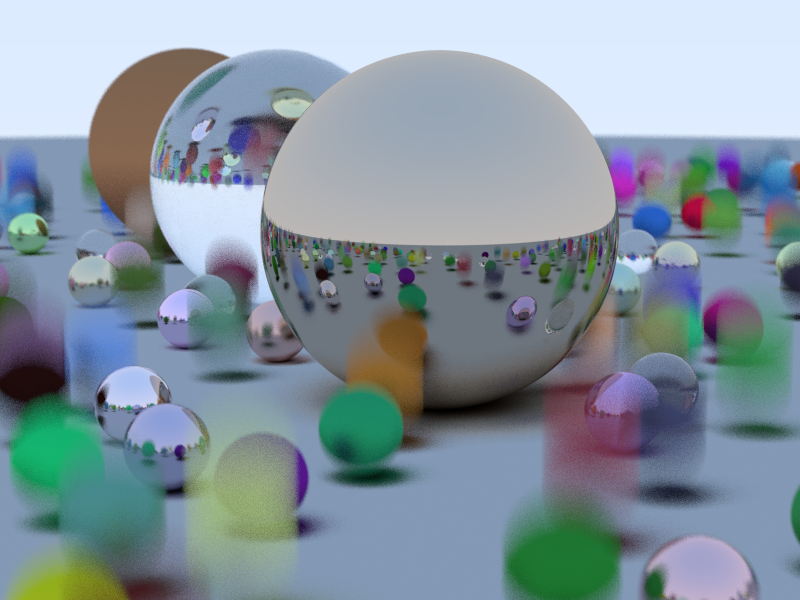
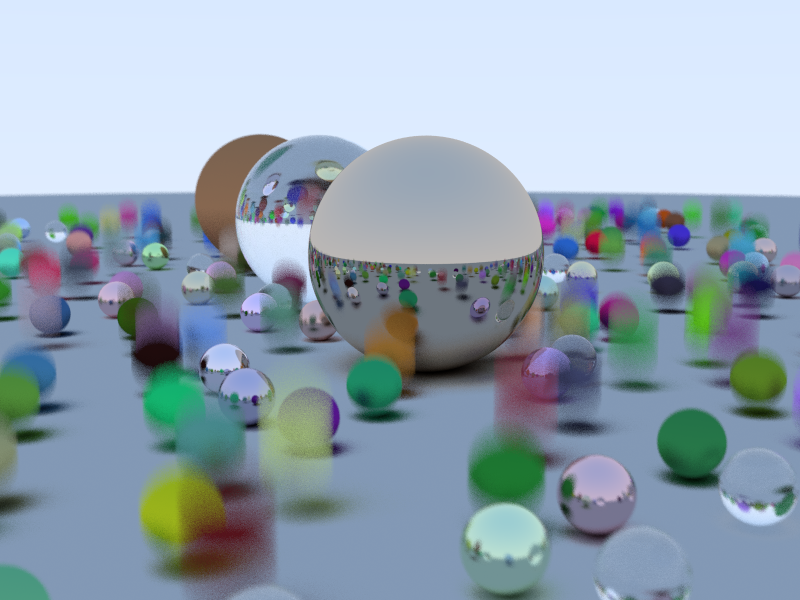
updating BVH and benchmark

diff --git a/src/bvh.cpp b/src/bvh.cpp
@@ -1,5 +1,122 @@
 #include "bvh.h"
 
+#include <algorithm>
+
+bool bvh_node::box_x_compare::operator() (const hitable_reference& a, const hitable_reference& b) const
+{
+    aabb box_left, box_right;
+    if(a->bounding_box(0, 0, box_left) == false || b->bounding_box(0, 0, box_right) == false)
+    {
+        std::cerr << "No bounding box in bvh_node constructor!\n";
+    }
+
+    // IMPORTANT !!!
+    // Reference : https://stackoverflow.com/questions/1541817/sort-function-c-segmentation-fault
+    // In C++, your "compare" predicate must be a strict weak ordering.
+    // In particular, "compare(X,X)" must return "false" for any X.
+    // ... (Otherwise) Therefore, this "compare" predicate does not impose a strict weak ordering,
+    // and the result of passing it to "sort" is undefined.
+
+    if(box_left.get_min().x() - box_right.get_min().x() <= 0.0f)
+    {
+        return false;
+    }
+    else
+    {
+        return true;
+    }
+}
+
+bool bvh_node::box_y_compare::operator() (const hitable_reference& a, const hitable_reference& b) const
+{
+    aabb box_left, box_right;
+    if(a->bounding_box(0, 0, box_left) == false || b->bounding_box(0, 0, box_right) == false)
+    {
+        std::cerr << "No bounding box in bvh_node constructor!\n";
+    }
+
+    if(box_left.get_min().y() - box_right.get_min().y() <= 0.0f)
+    {
+        return false;
+    }
+    else
+    {
+        return true;
+    }
+}
+
+bool bvh_node::box_z_compare::operator() (const hitable_reference& a, const hitable_reference& b) const
+{
+    aabb box_left, box_right;
+    if(a->bounding_box(0, 0, box_left) == false || b->bounding_box(0, 0, box_right) == false)
+    {
+        std::cerr << "No bounding box in bvh_node constructor!\n";
+    }
+
+    if(box_left.get_min().z() - box_right.get_min().z() <= 0.0f)
+    {
+        return false;
+    }
+    else
+    {
+        return true;
+    }
+}
+
+bvh_node::bvh_node(const std::vector<hitable_reference>& _list, float _t0, float _t1)
+{
+    list = _list;
+
+    int list_size = (int)list.size();
+
+    //std::cout << "list_size = " << list_size << "\n";
+
+    int random_axis = int(3 * drand48());
+    if(random_axis == 0)
+    {
+        // Reference : 
+        // according to https://stackoverflow.com/questions/12308243/trying-to-use-qsort-with-vector
+        // using std::sort with functor is the fastest, comparing to qsort and
+        // std::sort with custom function as compare operator
+        std::sort(list.begin(), list.end(), box_x_compare());
+    }
+    else if(random_axis == 1)
+    {
+        std::sort(list.begin(), list.end(), box_y_compare());
+    }
+    else
+    {
+        std::sort(list.begin(), list.end(), box_z_compare());
+    }
+
+    // edge cases when the bounding volume contains only one or two elements
+    if(list_size == 1)
+    {
+        left = right = _list[0];
+    }
+    else if(list_size == 2)
+    {
+        left = _list[0];
+        right = _list[1];
+    }
+    else
+    {
+        int half_size = list_size / 2;
+        std::vector<hitable_reference> left_list(list.begin(), list.begin() + half_size);
+        std::vector<hitable_reference> right_list(list.begin() + half_size, list.end());
+
+        left = std::make_shared<bvh_node>(left_list, _t0, _t1);
+        right = std::make_shared<bvh_node>(right_list, _t0, _t1);
+    }
+
+    aabb box_left, box_right;
+    if(left->bounding_box(_t0, _t1, box_left) == false || right->bounding_box(_t0, _t1, box_right) == false)
+    {
+        std::cerr << "No bounding box in bvh_node constructor!\n";
+    }
+    box = surrounding_box(box_left, box_right);
+}
+
 bool bvh_node::hit(const ray& _ray, float t_min, float t_max, hit_record& rec) const
 {
     if(box.hit(_ray, t_min, t_max))

diff --git a/include/bvh.h b/include/bvh.h
@@ -11,10 +11,27 @@ class bvh_node : public hitable
 {
 private:
     typedef std::shared_ptr<hitable> hitable_reference;
+    
+public:
+    class box_x_compare
+    {
+    public:
+        bool operator()(const hitable_reference& a, const hitable_reference& b) const;
+    };
+    class box_y_compare
+    {
+    public:
+        bool operator()(const hitable_reference& a, const hitable_reference& b) const;
+    };
+    class box_z_compare
+    {
+    public:
+        bool operator()(const hitable_reference& a, const hitable_reference& b) const;
+    };
 
 public:
     bvh_node() {}
-    bvh_node(const std::vector<hitable_reference>& _list, int _list_size, float _t0, float _t1);
+    bvh_node(const std::vector<hitable_reference>& _list, float _t0, float _t1);
 
     virtual bool hit(const ray& _ray, float t_min, float t_max, hit_record& rec) const override;
     virtual bool bounding_box(float t0, float t1, aabb& _box) const override;
@@ -23,6 +40,9 @@ public:
     hitable_reference left;
     hitable_reference right;
     aabb box;
+
+    //
+    std::vector<hitable_reference> list;
 };
 
 #endif

diff --git a/src/util.cpp b/src/util.cpp
@@ -6,6 +6,8 @@
 #include "material.h"
 #include "hitable_list.h"
 
+#include "bvh.h"
+
 vec3 random_in_unit_disk()
 {
     vec3 direction(drand48(), drand48(), 0);
@@ -96,5 +98,23 @@ std::shared_ptr<hitable> random_scene()
     list.push_back(std::make_shared<sphere>(vec3(-4, 1, 0), 1.0, std::make_shared<lambertian>(vec3(0.4, 0.2, 0.1))));
     list.push_back(std::make_shared<sphere>(vec3(4, 1, 0), 1.0, std::make_shared<metal>(vec3(0.7, 0.6, 0.5), 0.0)));
 
-    return std::make_shared<hitable_list>(list, list.size());
+    //return std::make_shared<hitable_list>(list, list.size());
+
+    // change to bvh
+    return std::make_shared<bvh_node>(list, 0.0f, 1.0f);
+
+    // using O(N) search ( hitable_list )
+    // real    4m49.214s
+    // user    13m57.995s
+    // sys     0m7.843s
+    //
+    // using BVH
+    // real    1m21.986s
+    // user    4m50.992s
+    // sys     0m4.199s
+    //
+    // using BVH and functors
+    // real    1m18.025s
+    // user    4m20.477s
+    // sys     0m3.869s
 }

diff --git a/src/main.cpp b/src/main.cpp
@@ -42,7 +42,7 @@ namespace
     const float distance_to_focus = 10.0f;
     const float aperture = 0.1f;
 
-    const camera cam(lookfrom, lookat, up, 20.0f, width_to_height_ratio, aperture, distance_to_focus, 0.0f, 1.0f);
+    const camera cam(lookfrom, lookat, up, 30.0f, width_to_height_ratio, aperture, distance_to_focus, 0.0f, 1.0f);
 
     unsigned char image[3 * image_width * image_height];
 }
@@ -52,7 +52,7 @@ vec3 get_color(const ray& _ray, std::shared_ptr<hitable> _world, int depth)
     hit_record rec;
     if(_world->hit(_ray, 0.001f, MAXFLOAT, rec))
     {
-        ray scattered; 
+        ray scattered;
         vec3 attentuation;
 
         if(depth < 50 && 
